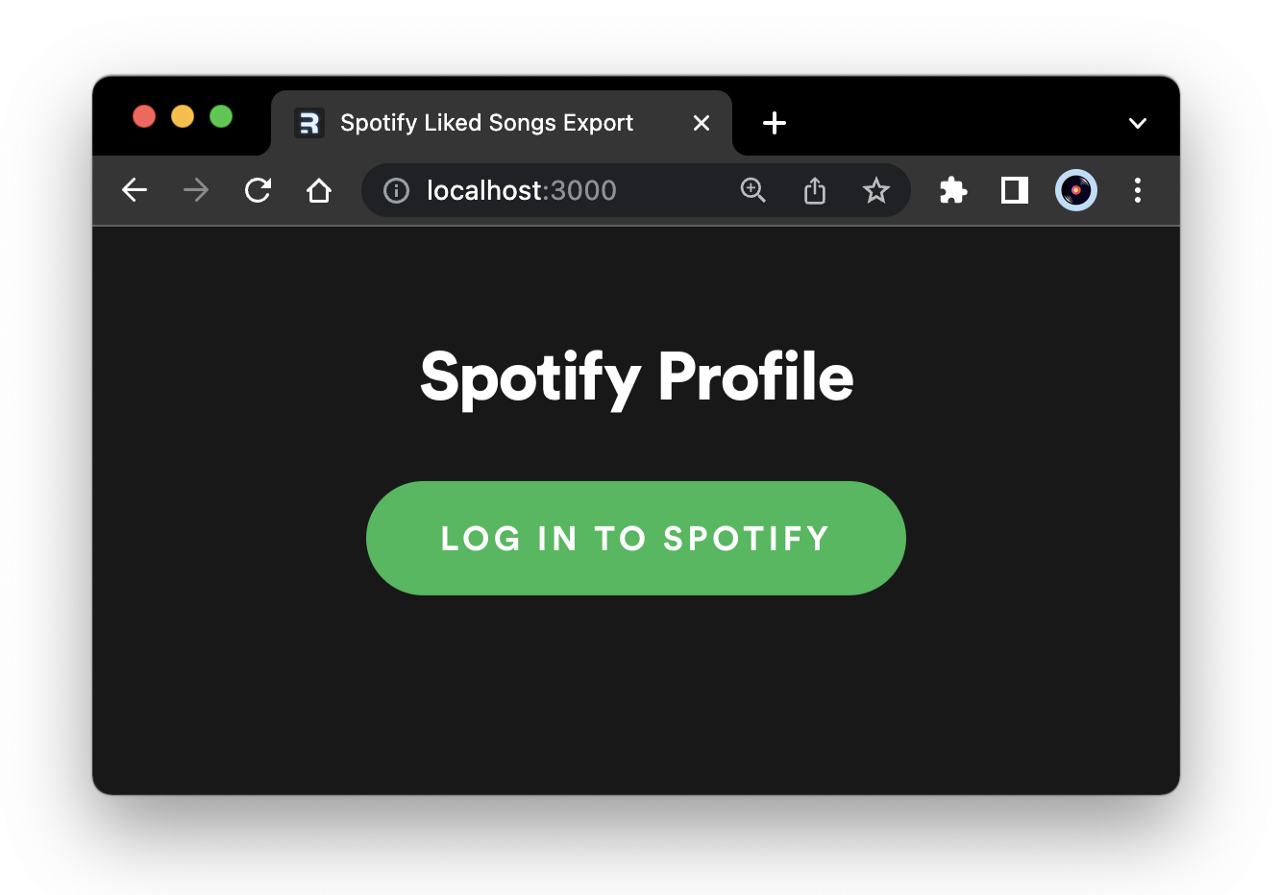
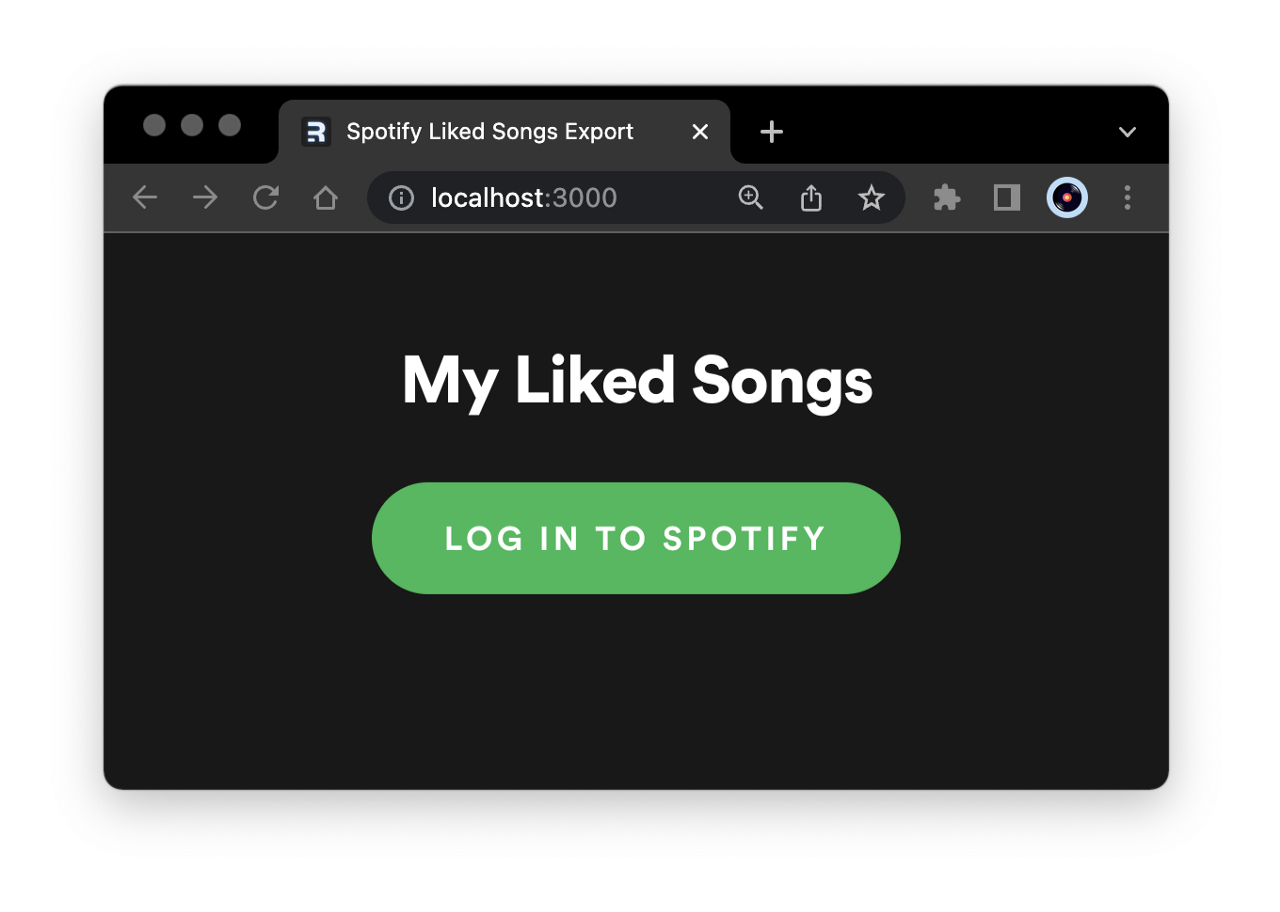
login img

diff --git a/remix/app/components/LoginScreen.js b/remix/app/components/LoginScreen.js
@@ -36,7 +36,7 @@ const LoginButton = styled.a`
 
 const LoginScreen = () => (
   <Login>
-    <h1>Spotify Profile</h1>
+    <h1>My Liked Songs</h1>
     <LoginButton href={LOGIN_URI}>Log in to Spotify</LoginButton>
   </Login>
 );

diff --git a/README.md b/README.md
@@ -1,17 +1,9 @@
-<p align="center">
-  <img width="500" src="././images/login.png"/>  
-</p>
 
 ## Spotify Liked Songs Export
 #### A Spotify Authorization Code flow using Remix and paginated GraphQL queries using StepZen.
 
-
-<br/>
-
 <p align="center">
-  <img width="230" src="././images/tunemymusic.png"/>
-  <img width="300" src="././images/subscription.png"/>
-  
+  <img width="500" src="././images/login.png"/>  
 </p>
 
 - **[How Portable Is Spotify?](overview.md): Exporting My Saved Music**
@@ -22,48 +14,24 @@
 
 <br/>
 
+<br/>
+
 <p align="center">
+  <img width="230" src="././images/tunemymusic.png"/>
+  <img width="300" src="././images/subscription.png"/>
+  
+</p>
+
+<!-- <p align="center">
   <img width="400" src="././images/oauthflow.png"/>
 </p>
 
-<br/>
+<br/> -->
 
 - **[A Spotify OAuth flow in Remix](authflow.md): Using CookieSessionStorage**
 
 
   > Where @materializer allows us to step through our API requests in implicit order, simply by descending through our type fields and back-filling secondary data, @sequence lets us step through API requests in explicit order. 
-
-
-```graphql
-type Query {
-  get_saved_tracks(
-    access_token: String!
-    first: Int! = 50
-    after: String! = ""
-  ): TrackConnection
-    @rest(
-      endpoint: "https://api.spotify.com/v1/me/tracks?limit=$first&offset=$after"
-      headers: [{
-        name: "Authorization",
-        value: "Bearer $access_token"
-      }]
-      resultroot: "items[]"
-      pagination: {
-        type: OFFSET
-        setters: [{field:"total", path: "total"}]
-      }
-      setters: [
-        { field: "track_id", path: "track.id" }
-        { field: "track_name", path: "track.name" }
-        { field: "artist_id", path: "track.artists[].id" }
-        { field: "artist_name", path: "track.artists[].name" }
-        { field: "popularity", path: "track.popularity" }
-        { field: "preview_url", path: "track.preview_url" }
-        { field: "isrc", path: "track.external_ids.isrc" }
-      ]
-    )
-}
-```
 
 
 - **[Designing a Spotify GraphQL schema with StepZen](stepzen.md): Paginating results**
@@ -75,7 +43,7 @@ type Query {
 <br/>
 
 <p align="center">
-  <img width="450" src="././images/newline.png"/>
+  <img width="350" src="././images/newline.png"/>
 </p>
 
 <br/>
